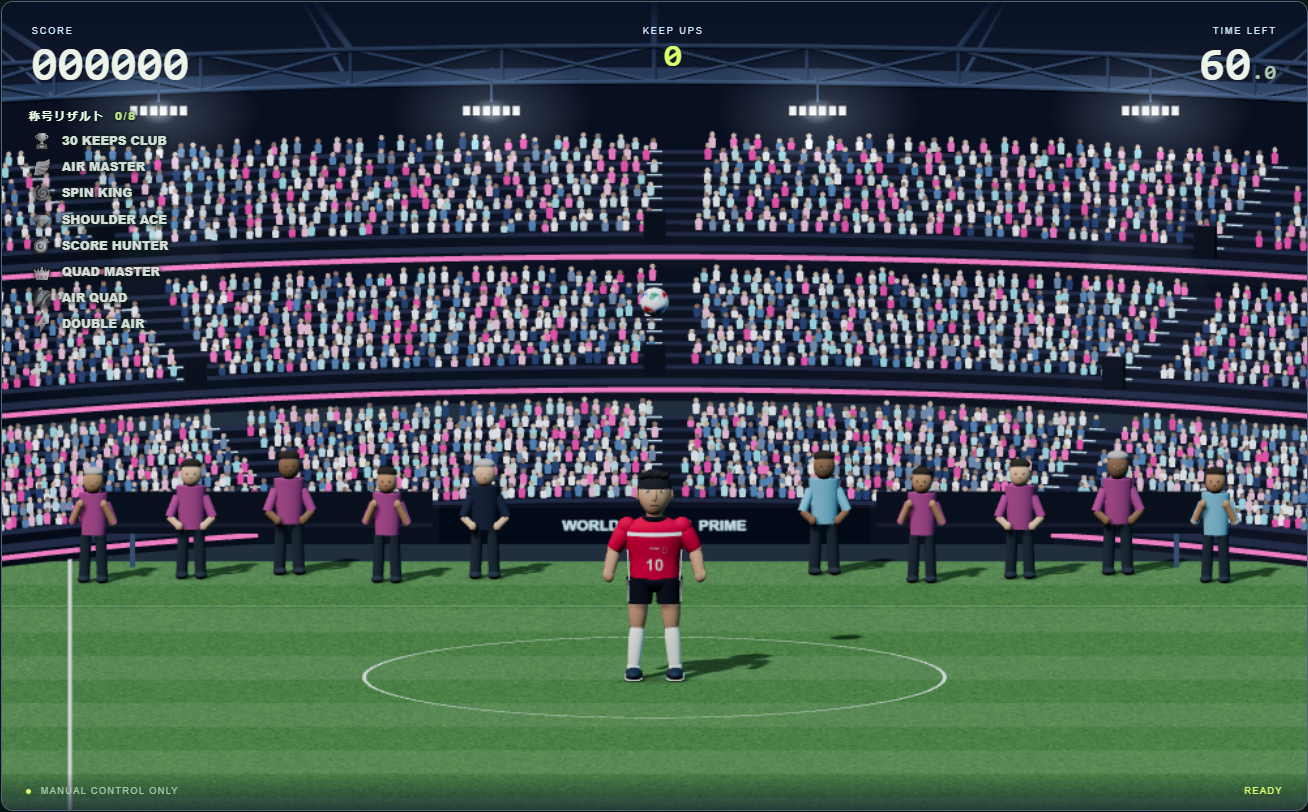
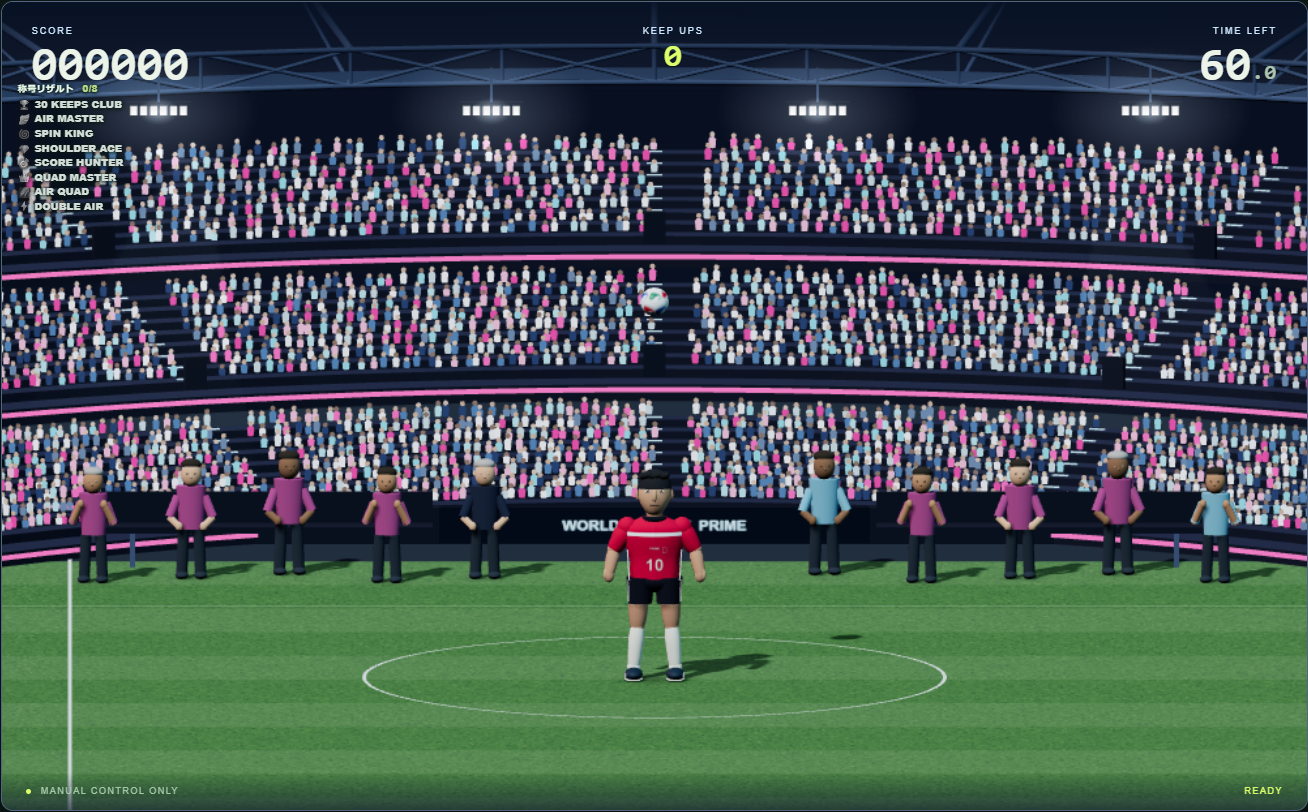
Compact PC live title HUD to clear the left playing area

Changed region(s): [[0.0, 0.0924, 0.1223, 0.431]]

diff --git a/style.css b/style.css
@@ -184,3 +184,13 @@ main.game-app{width:100vw;height:100dvh;max-width:none;margin:0;padding:12px 14p
  .world-arena-active .scorebar small { color:#cee8ff; }
  .world-arena-active .field-bottom { background:linear-gradient(transparent,#071124a0); }
 }
+
+/* Compact PC live titles: leave the left playing corridor visible. */
+@media (pointer:fine) {
+ body:not(.touch-landscape) .achievement-board { top:82px; left:16px; font-size:clamp(8px,.6vw,10px); line-height:1.1; }
+ body:not(.touch-landscape) .achievement-board-heading { font-size:.9em; margin-bottom:5px; letter-spacing:.04em; }
+ body:not(.touch-landscape) #achievement-live-list { gap:3px; }
+ body:not(.touch-landscape) .achievement-live-row { gap:4px; }
+ body:not(.touch-landscape) .achievement-live-icon { width:1.2em; font-size:1.05em; }
+ body:not(.touch-landscape) .achievement-unlock { top:calc(100% + 6px); font-size:10px; }
+}

diff --git a/index.html b/index.html
@@ -1,6 +1,6 @@
 <!doctype html>
 <html lang="ja">
-<head><meta charset="UTF-8"><meta name="viewport" content="width=device-width, initial-scale=1, viewport-fit=cover"><title>PRIME / Lifting Lab</title><link rel="stylesheet" href="style.css?v=0513"><link rel="stylesheet" href="mobile-ranking.css?v=0534"><link rel="stylesheet" href="mobile-result.css?v=0535"></head>
+<head><meta charset="UTF-8"><meta name="viewport" content="width=device-width, initial-scale=1, viewport-fit=cover"><title>PRIME / Lifting Lab</title><link rel="stylesheet" href="style.css?v=premium-hud-2"><link rel="stylesheet" href="mobile-ranking.css?v=0534"><link rel="stylesheet" href="mobile-result.css?v=0535"></head>
 <body>
 <main class="game-app">
  <aside class="side-panel controls-panel" aria-label="操作ガイド">
